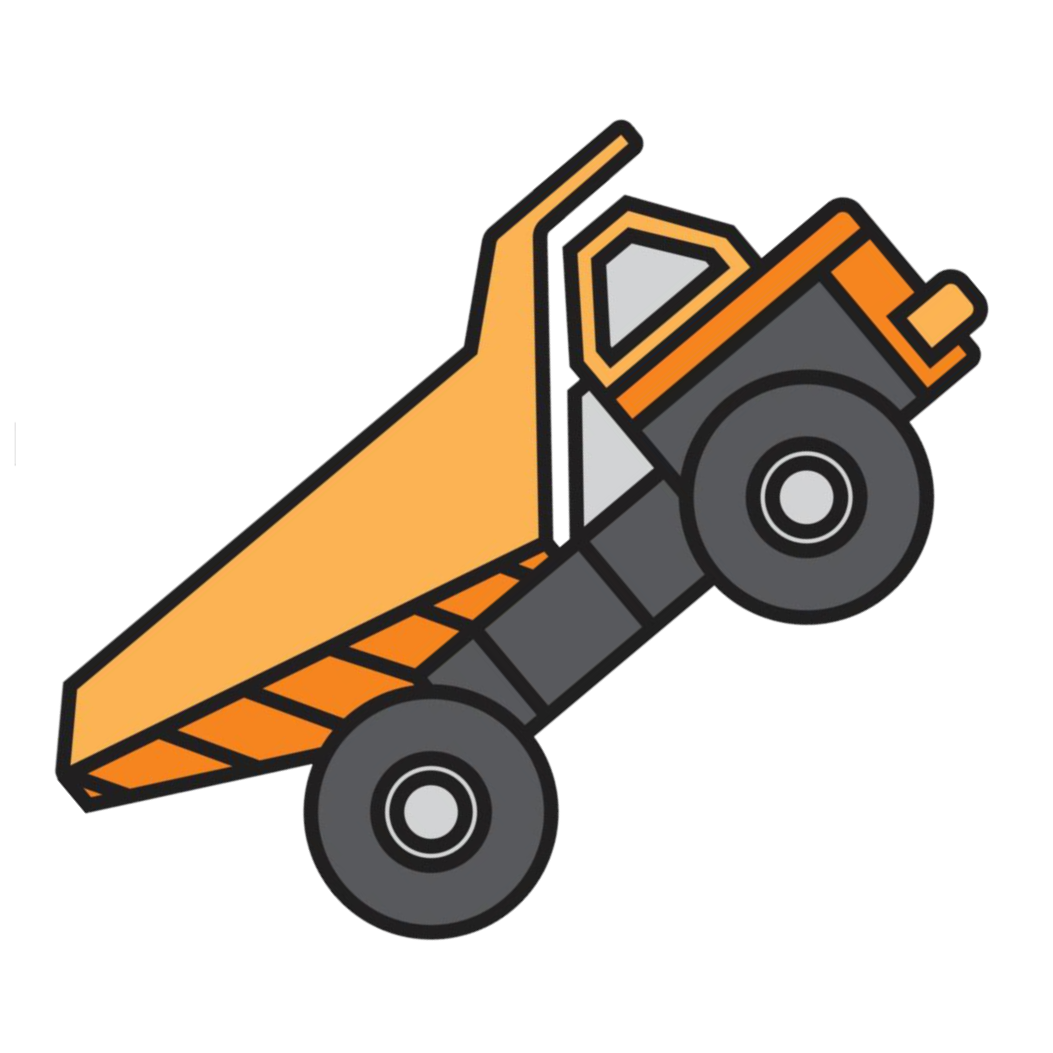
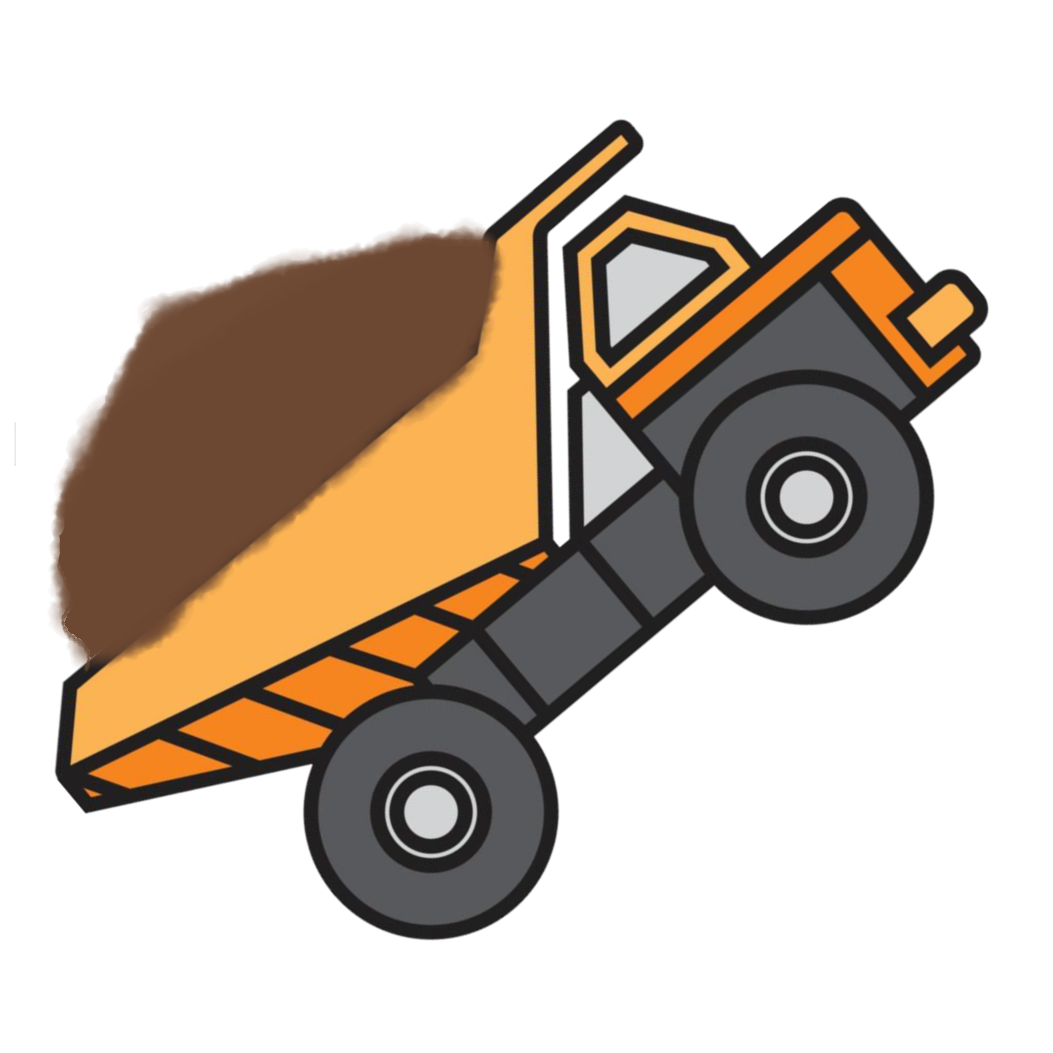
add dirt

Changed region(s): [[0.0304, 0.2127, 0.4862, 0.6382]]

diff --git a/Game/style.css b/Game/style.css
@@ -4,7 +4,7 @@
 }
 
 body {
-	background: black;
+  background: black;
 }
 
 main {
@@ -32,7 +32,7 @@ aside {
 
 #fpBox {
   display: flex;
-  border-style:solid;
+  border-style: solid;
   position: relative;
   width: 100%;
   height: 50px;
@@ -54,7 +54,6 @@ aside {
   height: 27.5px;
   bottom: 11px;
 }
-
 
 #fpInput {
   align-self: center;
@@ -110,7 +109,7 @@ aside {
   border: 1px solid white;
 }
 
-#kmhInput{
+#kmhInput {
   font-size: 150px;
   font-weight: 900;
   line-height: 170px;
@@ -150,7 +149,7 @@ td {
   color: green;
 }
 #ecoHaulingInput {
-  color: red
+  color: red;
 }
 
 #nameBox {
@@ -166,6 +165,7 @@ td {
 
 #truckImageFlat,
 #truckImageDecline,
-#truckImageIncline {
-	display: none;
+#truckImageIncline,
+#truckImageFlatHaul {
+  display: none;
 }

diff --git a/Game/script.js b/Game/script.js
@@ -156,7 +156,11 @@ window.addEventListener("load", function () {
           70
         );
       } else if (currTerrain.terrain === "flat") {
-        this.image = document.getElementById("truckImageFlat");
+        if (segment >= 5){
+          this.image = document.getElementById("truckImageFlatHaul");
+        } else {
+          this.image = document.getElementById("truckImageFlat");
+        }
         context.drawImage(
           this.image,
           this.x_relative - 40,

diff --git a/Game/index.html b/Game/index.html
@@ -58,6 +58,7 @@
     <img id="truckImageFlat" src="truckFlat.png" />
     <img id="truckImageDecline" src="truckDecline.png" />
     <img id="truckImageIncline" src="truckIncline.png" />
+    <img id="truckImageFlatHaul" src="truckFlatHaul.png" />
     <script src="script.js"></script>
   </body>
 </html>
